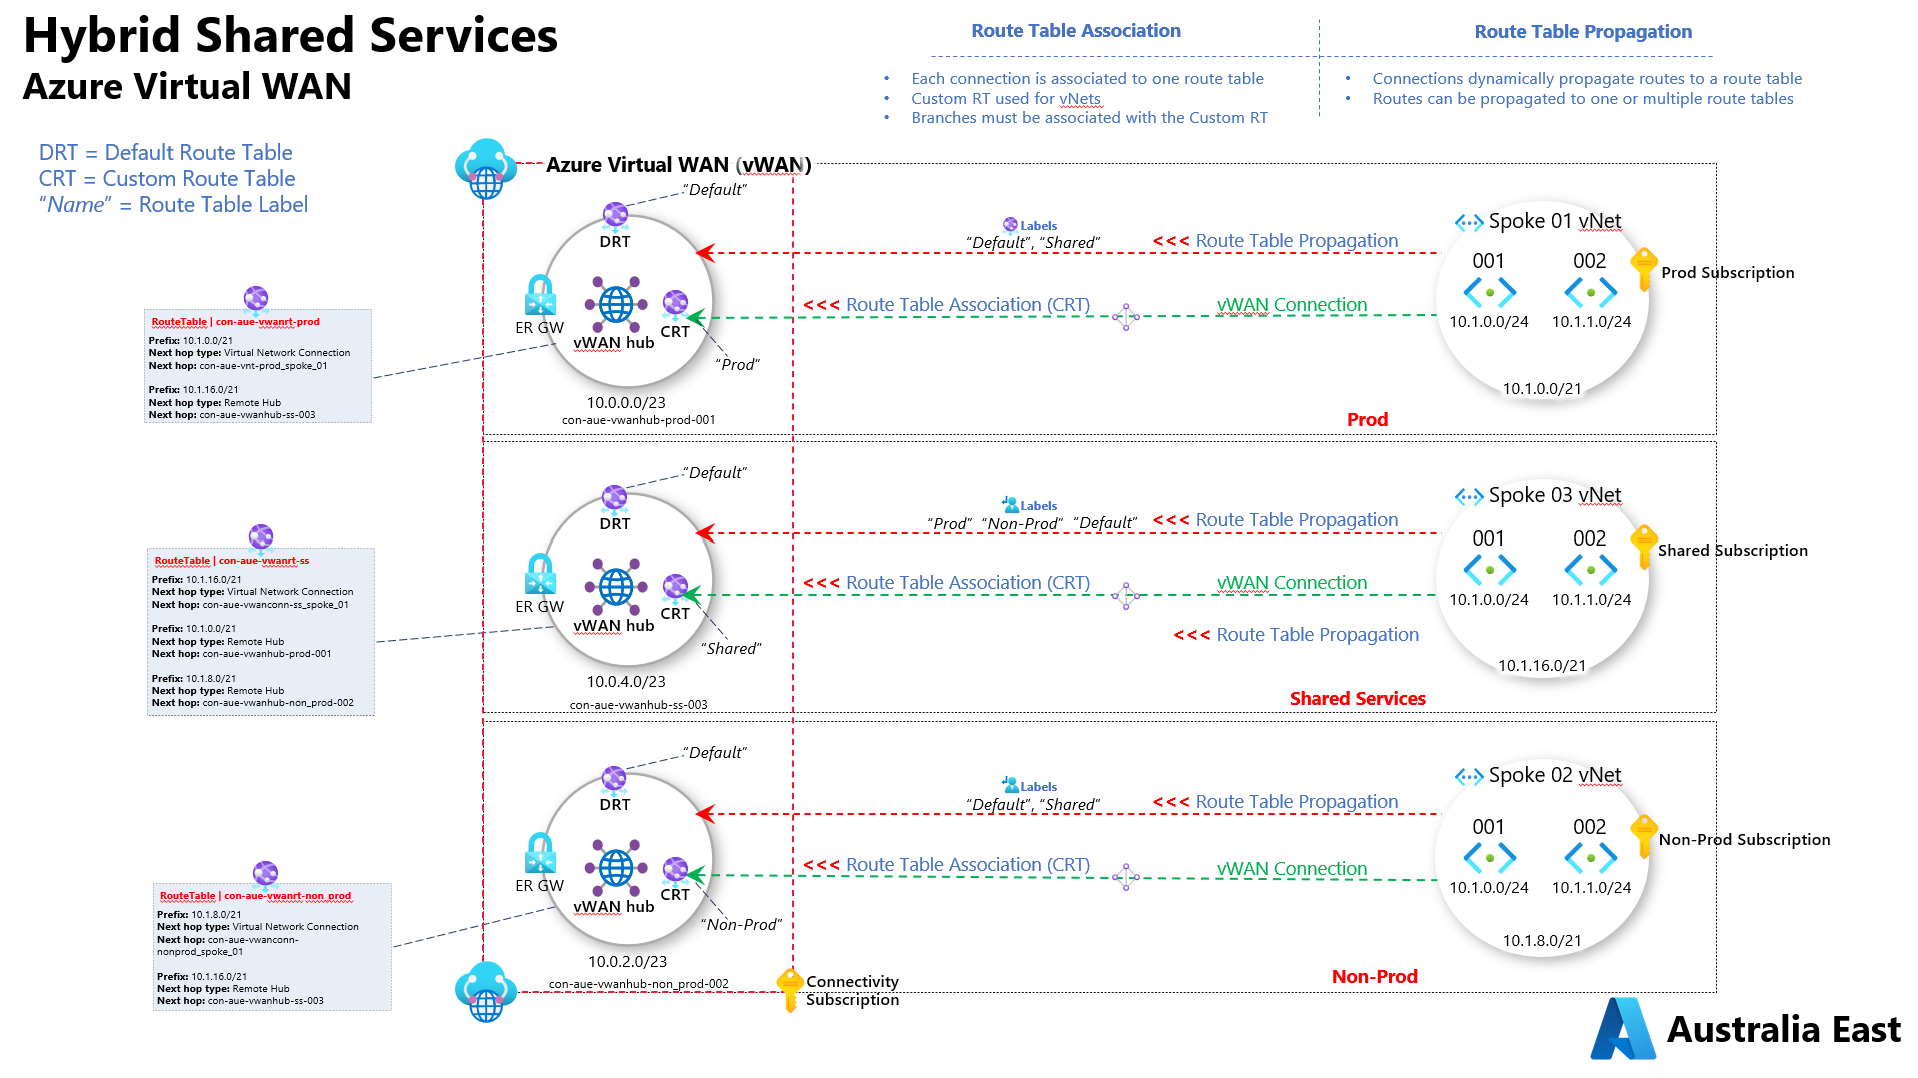
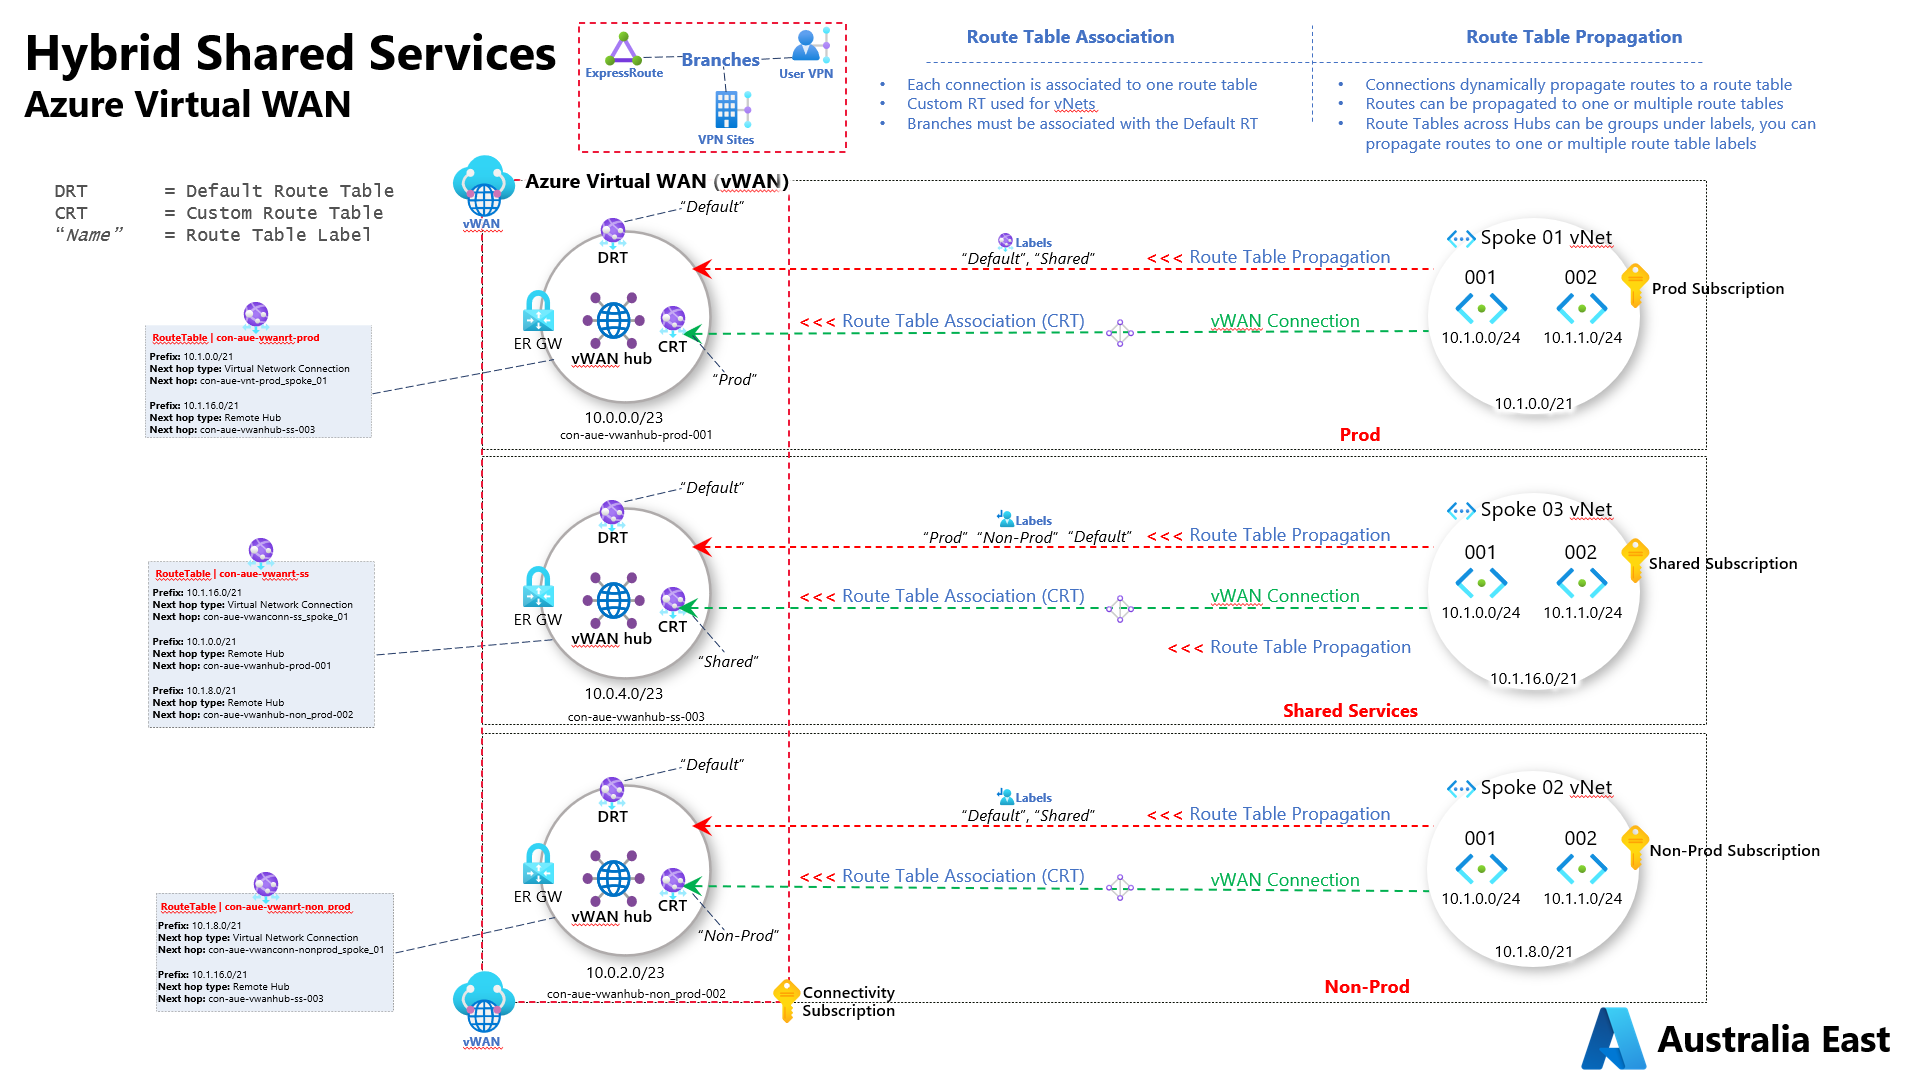
.

diff --git a/README.md b/README.md
@@ -9,18 +9,84 @@ In this section we have a look at "the what", **what** is deployed using this co
 <img src="blobs/Screenshot%202021-07-21%20191501.png" width="2000"/>
 
 ## Deployment Instructions
+Note, in the real world for large enterprise companies, you would already have access to Terraform Cloud and also have a CI/CD setup, so I assume you already know how this works, you take these Terraform files in this repo and build on top of these, do what you will. 
 
-This is where you find all the instructions to run this repository in amongst the the other repositories. To begin with, repositories must be run in order and each subsequent repository is dependent on the lower level repository. Once all repositories have been run successfully once and in full, then the repositories can be run again in any order for any changes that are required.
+Else, as a quick start, you can run this as a test, in a non-prod/dev environment to have a play and see how/what deploys into Azure. 
 
-Before you deploy:
+Below the instructions to quickly run the Terraform in this repository with the least amount of effort. Easiest way to do this is using **CloudDrive** from within Azure Cloud Shell. The CloudDrive is literally just an Azure Files share in your Azure subscription which saves state and in which you can host files. In this instance, you can host Terraform files form this repo.
 
-https://marketplace.visualstudio.com/items?itemName=ms-azuretools.vscode-azurestorage
+[Cloud Shell automatically has the latest version of Terraform installed](https://docs.microsoft.com/en-us/azure/developer/terraform/get-started-cloud-shell). Also, Terraform automatically uses information from the current Azure subscription. As a result, there's no installation or configuration required. 
 
-Cloud Shell automatically has the latest version of Terraform installed. Also, Terraform automatically uses information from the current Azure subscription. As a result, there's no installation or configuration required
+### VS Code
+Download and Install [Visual Studio Code](https://code.visualstudio.com/download)
 
-[Persist files in Azure Cloud Shell](https://docs.microsoft.com/en-us/azure/cloud-shell/persisting-shell-storage)
+Install the **Azure Account** extension
 
+![](blobs/Screenshot%202021-07-22%20095015.png)
 
+In VS Code, hit **F1**, then **Sign in to Azure**. 
+
+![](blobs/Screenshot%202021-07-22%20104240.png)
+
+In VS Code, hit **F1** again, then **open Bash in Cloud Shell**. 
+
+![](blobs/Screenshot%202021-07-22%20094811.png)
+
+### List clouddrive
+Next, you need to connect to the Azure Files share in which CloudDrive is configured to use, so you can copy and paste the Terraform files in this repo. [To see which Azure Files share CloudDrive is using](https://docs.microsoft.com/en-us/azure/cloud-shell/persisting-shell-storage#list-clouddrive), run the `df` command.
+
+```
+justin@Azure:~$ df
+Filesystem                                          1K-blocks   Used  Available Use% Mounted on
+overlay                                             29711408 5577940   24117084  19% /
+tmpfs                                                 986716       0     986716   0% /dev
+tmpfs                                                 986716       0     986716   0% /sys/fs/cgroup
+/dev/sda1                                           29711408 5577940   24117084  19% /etc/hosts
+shm                                                    65536       0      65536   0% /dev/shm
+//mystoragename.file.core.windows.net/fileshareName 5368709120    64 5368709056   1% /home/justin/clouddrive
+justin@Azure:~$
+```
+In this instance, the storage account is **mystoragename** and the Azure Files Share is **fileshareName**.
+### Mount SMB Azure file share
+Next thing you need to do is mount the Azure Files Share on your local device, Windows, Linux, macOS - [https://docs.microsoft.com/en-us/azure/storage/files/storage-how-to-use-files-windows](https://docs.microsoft.com/en-us/azure/storage/files/storage-how-to-use-files-windows)
+
+Once the Azure Files share is mounted, simply create a folder in the root of the drive and copy the files in this repo to it.
+
+### Variables to change
+In the **variables.tf** file, there's a list of variables to change to suit your own environment. Make sure you run through this and make the necessary changes. It should be fairly obvious which variables you need to change. For starters, one that you definitely would want to change is the Azure Subscription ID
+
+```
+variable "connectivity_subscription_id" {
+  type    = string
+  default = "6bx002x5-54x6-4xb1-9xca-5bxefx18x0bx"
+}
+```
+
+We are using provider alias's throughout, this gives us the flexibility to deploy across multiple subscriptions on a resource by resouce basis. This means that on a per resource basis you'll see this line included `provider            = azurerm.connectivity` for every resource, here we're specifying which Azure subscription to use.
+
+If you want to deploy any resources to other subscriptions, e.g. the spoke Virtual Networks, you can. 
+
+Simply create another provider in the **terraform.tf** file, similar to:
+
+![](blobs/Screenshot%202021-07-22%20111622.png)
+
+Also create another variable in the **variables.tf** file similar to:
+
+![](blobs/Screenshot%202021-07-22%20111659.png)
+### Terraform Commands in Cloud Shell
+In Cloud Shell, run `cd CloudDrive` - at this point, you're at the same location as what you see in the Azure Files Share that has been mounted.
+
+Run `ls` to view the contents of the folder. 
+
+Run `cd FolderName` to change to the folder name containing the Terraform Files to which you created just before
+
+Run `Terraform Init` to first initialise the folder to be used with Terraform
+
+Option: Run `Terraform Validate` to validate the code. (if you just copied files directly fro this repo, then no errors should appear)
+
+Run `Terraform plan` to see what will be deployed
+
+Run `Terraform apply -auto-approve` to apply the configuration directly to Azure.
 
 ## Deployed Items
 The below is "the what", **what** is deployed with this repository.  
@@ -94,14 +160,18 @@ This covers:
 - Can have static routes, directing traffic for a tiered spoke through an NVA
 
 ### Propagation
-- Inserts route information from Connections into Route Table
-- Connections can Propagate to multiple RT’s
-- Connections must Propagate to RT’s in all Hubs (or use Labels) for inter-hub connectivity
+Connections dynamically propagate routes to a route table. Routes can be propagated to one or multiple route tables. Propagating to the **none** route table implies that no routes are required to be propagates from that connection.
 
+You can propagate routes to a route table directly, or you can propagate routes to route table **labels**. Labels provide a mechanism to logically group route tables and exist across all hubs. For example, the Default Route Table has a built-in label called **Default**. When users propagate connection routes to the **Default** label, it automatically applies to all the **Default** labelled Route Tables across every hub in the Virtual WAN. When creating a route table, you can add one or many labels to this route table. 
+- Connections dynamically propagate routes to a route table
+- Routes can be propagated to one or multiple route tables
+- Route Tables across Hubs can be groups under labels, you can propagate routes to one or multiple route table labels
 ### Association
-- Programs route information from Route Tables into Connections
-- Determines next hop for traffic from VNET or Branch to destination -> controls flow of traffic
-- Each Connection Associates with one Route Table
+Association allows the connection to reach all the routes in the route table. Multiple connections can be associated to the same route table. VPN Sites, User VPN and ExpressRoute connections are required to be associated to the **default** route table. Each virtual hub has its own default route table, to which you can add static routes. A **static route** takes precedence over dynamically learned routes. 
+- Each connection is associated to one route table
+- Custom RT used for vNets
+- Branches must be associated with the Default RT
+
 
 [![Alt text](https://img.youtube.com/vi/reuK7XIHuog/0.jpg)](https://www.youtube.com/watch?v=reuK7XIHuog)
 
